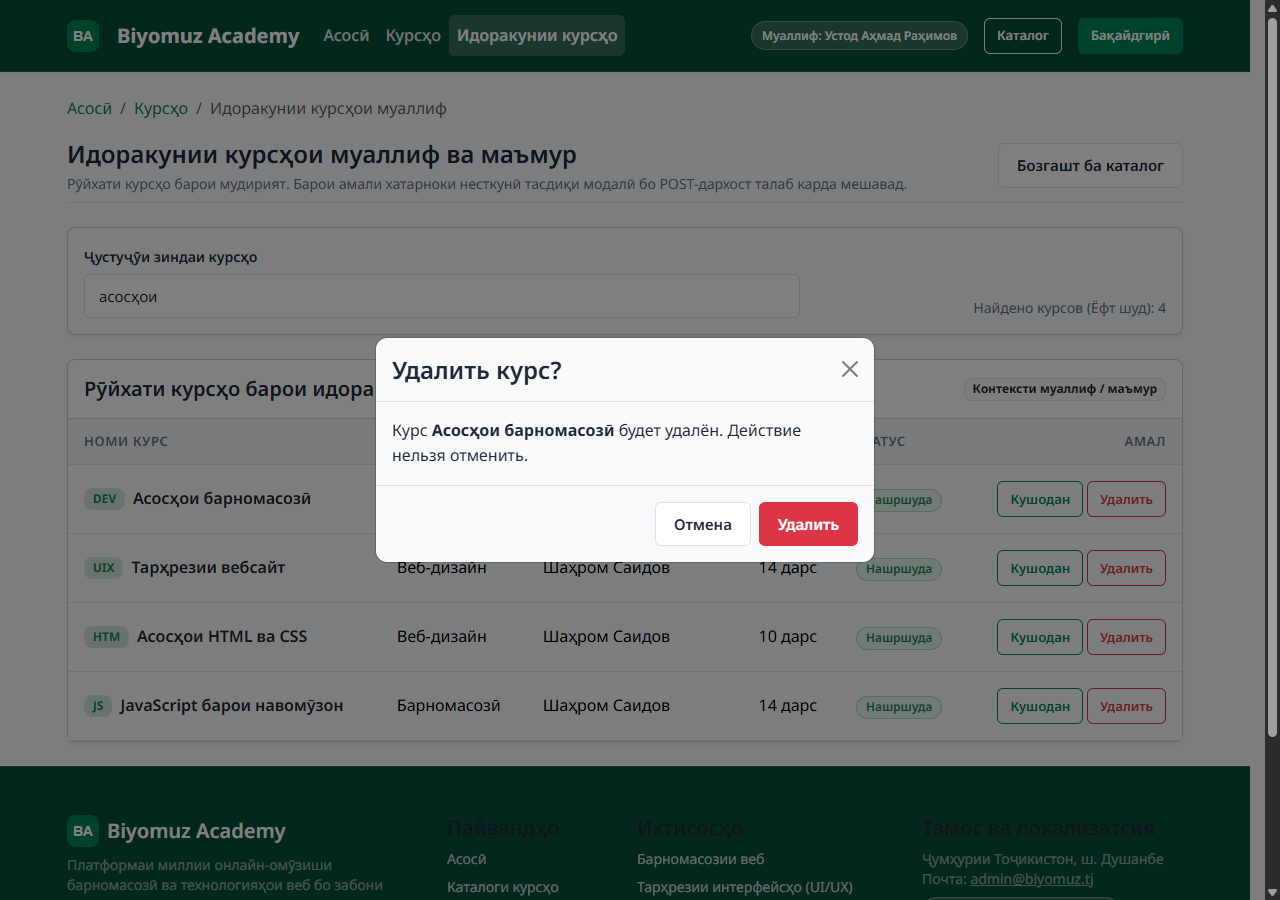
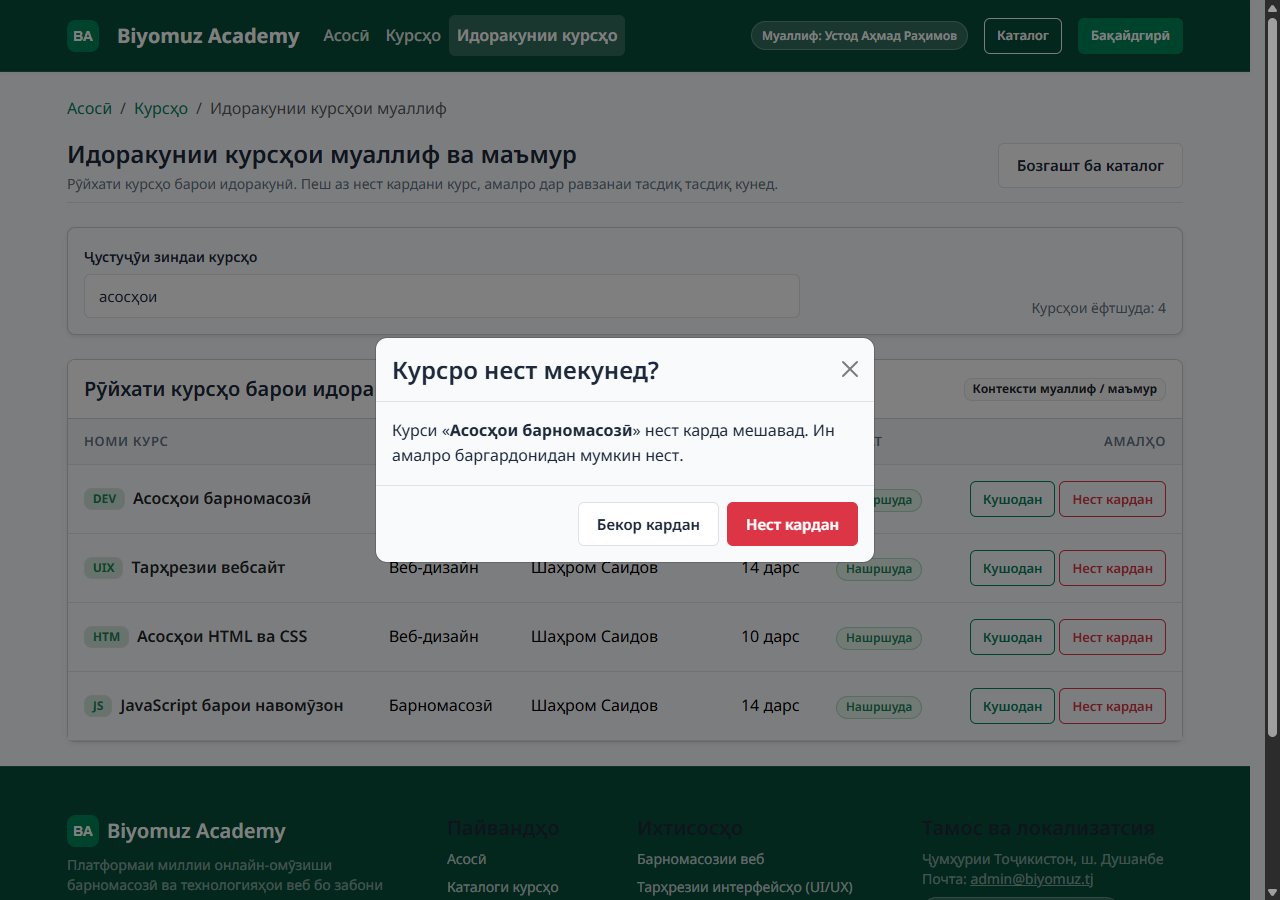
fix(lab-11): локализация модального окна на таджикский и защита AbortController

diff --git a/public/static/author-courses.html b/public/static/author-courses.html
@@ -75,7 +75,7 @@
       <div>
         <h1 class="h2 mb-1">Идоракунии курсҳои муаллиф ва маъмур</h1>
         <p class="text-muted text-small mb-0">
-          Рӯйхати курсҳо барои мудирият. Барои амали хатарноки несткунӣ тасдиқи модалӣ бо POST-дархост талаб карда мешавад.
+          Рӯйхати курсҳо барои идоракунӣ. Пеш аз нест кардани курс, амалро дар равзанаи тасдиқ тасдиқ кунед.
         </p>
       </div>
       <a href="courses.html" class="btn btn-outline-secondary">Бозгашт ба каталог</a>
@@ -91,7 +91,7 @@
         </div>
         <div class="col-12 col-md-4 d-flex align-items-center justify-content-md-end">
           <p id="course-search-status" class="text-small text-muted mb-0" aria-live="polite">
-            Найдено курсов (Ёфт шуд): 6
+            Курсҳои ёфтшуда: 5
           </p>
         </div>
       </form>
@@ -113,8 +113,8 @@
               <th scope="col">Категория</th>
               <th scope="col">Муаллиф</th>
               <th scope="col">Дарсҳо</th>
-              <th scope="col">Статус</th>
-              <th scope="col" class="text-end">Амал</th>
+              <th scope="col">Ҳолат</th>
+              <th scope="col" class="text-end">Амалҳо</th>
             </tr>
           </thead>
           <tbody id="courses-tbody" data-manage-mode="author">
@@ -128,12 +128,12 @@
               <td data-label="Категория">Барномасозӣ</td>
               <td data-label="Муаллиф">Устод Аҳмад Раҳимов</td>
               <td data-label="Дарсҳо">18 дарс</td>
-              <td data-label="Статус"><span class="badge-status status-published">Нашршуда</span></td>
-              <td data-label="Амал" class="text-end cell-actions">
+              <td data-label="Ҳолат"><span class="badge-status status-published">Нашршуда</span></td>
+              <td data-label="Амалҳо" class="text-end cell-actions">
                 <a class="btn btn-sm btn-outline-primary" href="course.html">Кушодан</a>
                 <button type="button" class="btn btn-sm btn-outline-danger ms-1"
                         data-delete-url="/courses/3/delete"
-                        data-course-name="Кор бо Laravel">Удалить</button>
+                        data-course-name="Кор бо Laravel">Нест кардан</button>
               </td>
             </tr>
             <tr>
@@ -146,12 +146,12 @@
               <td data-label="Категория">Барномасозӣ</td>
               <td data-label="Муаллиф">Устод Аҳмад Раҳимов</td>
               <td data-label="Дарсҳо">16 дарс</td>
-              <td data-label="Статус"><span class="badge-status status-published">Нашршуда</span></td>
-              <td data-label="Амал" class="text-end cell-actions">
+              <td data-label="Ҳолат"><span class="badge-status status-published">Нашршуда</span></td>
+              <td data-label="Амалҳо" class="text-end cell-actions">
                 <a class="btn btn-sm btn-outline-primary" href="course.html">Кушодан</a>
                 <button type="button" class="btn btn-sm btn-outline-danger ms-1"
                         data-delete-url="/courses/2/delete"
-                        data-course-name="Омӯзиши забони PHP">Удалить</button>
+                        data-course-name="Омӯзиши забони PHP">Нест кардан</button>
               </td>
             </tr>
             <tr>
@@ -164,12 +164,12 @@
               <td data-label="Категория">Барномасозӣ</td>
               <td data-label="Муаллиф">Устод Аҳмад Раҳимов</td>
               <td data-label="Дарсҳо">12 дарс</td>
-              <td data-label="Статус"><span class="badge-status status-published">Нашршуда</span></td>
-              <td data-label="Амал" class="text-end cell-actions">
+              <td data-label="Ҳолат"><span class="badge-status status-published">Нашршуда</span></td>
+              <td data-label="Амалҳо" class="text-end cell-actions">
                 <a class="btn btn-sm btn-outline-primary" href="course.html">Кушодан</a>
                 <button type="button" class="btn btn-sm btn-outline-danger ms-1"
                         data-delete-url="/courses/1/delete"
-                        data-course-name="Асосҳои барномасозӣ">Удалить</button>
+                        data-course-name="Асосҳои барномасозӣ">Нест кардан</button>
               </td>
             </tr>
             <tr>
@@ -182,12 +182,12 @@
               <td data-label="Категория">Барномасозӣ</td>
               <td data-label="Муаллиф">Синои Ҳасан</td>
               <td data-label="Дарсҳо">8 дарс</td>
-              <td data-label="Статус"><span class="badge-status status-pending">Мунтазир</span></td>
-              <td data-label="Амал" class="text-end cell-actions">
+              <td data-label="Ҳолат"><span class="badge-status status-pending">Мунтазир</span></td>
+              <td data-label="Амалҳо" class="text-end cell-actions">
                 <a class="btn btn-sm btn-outline-primary" href="course.html">Кушодан</a>
                 <button type="button" class="btn btn-sm btn-outline-danger ms-1"
                         data-delete-url="/courses/9/delete"
-                        data-course-name="Амнияти веб">Удалить</button>
+                        data-course-name="Амнияти веб">Нест кардан</button>
               </td>
             </tr>
             <tr>
@@ -200,12 +200,12 @@
               <td data-label="Категория">Барномасозӣ</td>
               <td data-label="Муаллиф">Устод Аҳмад Раҳимов</td>
               <td data-label="Дарсҳо">15 дарс</td>
-              <td data-label="Статус"><span class="badge-status status-draft">Сиёҳнавис</span></td>
-              <td data-label="Амал" class="text-end cell-actions">
+              <td data-label="Ҳолат"><span class="badge-status status-draft">Сиёҳнавис</span></td>
+              <td data-label="Амалҳо" class="text-end cell-actions">
                 <a class="btn btn-sm btn-outline-primary" href="course.html">Кушодан</a>
                 <button type="button" class="btn btn-sm btn-outline-danger ms-1"
                         data-delete-url="/courses/10/delete"
-                        data-course-name="Сохтани лоиҳаи амалӣ">Удалить</button>
+                        data-course-name="Сохтани лоиҳаи амалӣ">Нест кардан</button>
               </td>
             </tr>
           </tbody>
@@ -215,23 +215,23 @@
 
   </main>
 
-  <!-- ── МОДАЛЬНОЕ ОКНО ПОДТВЕРЖДЕНИЯ УДАЛЕНИЯ КУРСА ─────────────────────────── -->
+  <!-- ── РАВЗАНАИ МОДАЛИИ ТАСДИҚИ НЕСТ КАРДАНИ КУРС ───────────────────────────── -->
   <div class="modal fade" id="confirm-delete-modal" tabindex="-1" aria-labelledby="confirm-delete-title" aria-hidden="true">
     <div class="modal-dialog modal-dialog-centered">
       <div class="modal-content">
         <div class="modal-header">
-          <h2 class="modal-title h4" id="confirm-delete-title">Удалить курс?</h2>
-          <button type="button" class="btn-close" data-bs-dismiss="modal" aria-label="Закрыть"></button>
+          <h2 class="modal-title h4" id="confirm-delete-title">Курсро нест мекунед?</h2>
+          <button type="button" class="btn-close" data-bs-dismiss="modal" aria-label="Пӯшидан"></button>
         </div>
         <div class="modal-body">
           <p class="mb-0">
-            Курс <strong id="confirm-delete-name"></strong> будет удалён. Действие нельзя отменить.
+            Курси «<strong id="confirm-delete-name"></strong>» нест карда мешавад. Ин амалро баргардонидан мумкин нест.
           </p>
         </div>
         <div class="modal-footer">
-          <button type="button" class="btn btn-outline-secondary" data-bs-dismiss="modal">Отмена</button>
+          <button type="button" class="btn btn-outline-secondary" data-bs-dismiss="modal">Бекор кардан</button>
           <form id="confirm-delete-form" method="post" action="#">
-            <button type="submit" class="btn btn-danger">Удалить</button>
+            <button type="submit" class="btn btn-danger">Нест кардан</button>
           </form>
         </div>
       </div>

diff --git a/public/assets/js/app.js b/public/assets/js/app.js
@@ -279,14 +279,14 @@ function createCourseTableRow(course, isAuthorMode) {
 
   const statusKey = course.status in STATUS_LABELS ? course.status : 'draft';
   const statusTd = document.createElement('td');
-  statusTd.setAttribute('data-label', isAuthorMode ? 'Статус' : 'Ҳолат');
+  statusTd.setAttribute('data-label', 'Ҳолат');
   const statusSpan = document.createElement('span');
   statusSpan.className = `badge-status status-${statusKey}`;
   statusSpan.textContent = STATUS_LABELS[statusKey];
   statusTd.append(statusSpan);
 
   const actionsTd = document.createElement('td');
-  actionsTd.setAttribute('data-label', 'Амал');
+  actionsTd.setAttribute('data-label', 'Амалҳо');
   actionsTd.className = 'text-end cell-actions';
 
   const openLink = document.createElement('a');
@@ -301,7 +301,7 @@ function createCourseTableRow(course, isAuthorMode) {
     deleteBtn.className = 'btn btn-sm btn-outline-danger ms-1';
     deleteBtn.dataset.deleteUrl = `/courses/${encodeURIComponent(course.id)}/delete`;
     deleteBtn.dataset.courseName = course.title ?? '';
-    deleteBtn.textContent = 'Удалить';
+    deleteBtn.textContent = 'Нест кардан';
     actionsTd.append(deleteBtn);
   }
 
@@ -322,7 +322,7 @@ function renderCourses(container, courses, tbody) {
     if (courses.length === 0) {
       const emptyBox = document.createElement('div');
       emptyBox.className = 'alert alert-light border text-muted mb-0';
-      emptyBox.textContent = 'Курсы не найдены (Курсҳо ёфт нашуданд).';
+      emptyBox.textContent = 'Курсҳо ёфт нашуданд.';
       container.replaceChildren(emptyBox);
     } else {
       const cards = courses.map((course) => createCourseCard(course));
@@ -337,7 +337,7 @@ function renderCourses(container, courses, tbody) {
       const emptyTd = document.createElement('td');
       emptyTd.colSpan = 6;
       emptyTd.className = 'text-center text-muted py-4';
-      emptyTd.textContent = 'Курсы не найдены (Курсҳо ёфт нашуданд).';
+      emptyTd.textContent = 'Курсҳо ёфт нашуданд.';
       emptyRow.append(emptyTd);
       tbody.replaceChildren(emptyRow);
     } else {
@@ -363,16 +363,17 @@ function initCourseSearch() {
 
   async function search(query) {
     controller?.abort();
-    controller = new AbortController();
+    const currentController = new AbortController();
+    controller = currentController;
 
     if (listContainer) listContainer.setAttribute('aria-busy', 'true');
     if (tbody) tbody.setAttribute('aria-busy', 'true');
-    setStatus('Поиск курсов… (Ҷустуҷӯ…)');
+    setStatus('Ҷустуҷӯи курсҳо идома дорад…');
 
     try {
       const response = await fetch(`/api/courses?q=${encodeURIComponent(query)}`, {
         headers: { Accept: 'application/json' },
-        signal: controller.signal,
+        signal: currentController.signal,
       });
 
       if (!response.ok) {
@@ -380,6 +381,8 @@ function initCourseSearch() {
       }
 
       const courses = await response.json();
+      if (currentController.signal.aborted) return;
+
       if (!Array.isArray(courses)) {
         throw new Error('Некорректный формат ответа API');
       }
@@ -387,16 +390,18 @@ function initCourseSearch() {
       renderCourses(listContainer, courses, tbody);
       setStatus(
         courses.length > 0
-          ? `Найдено курсов (Ёфт шуд): ${courses.length}`
-          : 'Курсы не найдены (Курсҳо ёфт нашуданд).'
+          ? `Курсҳои ёфтшуда: ${courses.length}`
+          : 'Курсҳо ёфт нашуданд.'
       );
     } catch (error) {
-      if (error.name === 'AbortError') return;
+      if (error.name === 'AbortError' || currentController.signal.aborted) return;
       console.error('Ошибка живого поиска курсов:', error);
-      setStatus('Не удалось выполнить поиск. Проверьте соединение с сервером и попробуйте ещё раз.');
+      setStatus('Ҷустуҷӯ иҷро нашуд. Пайвастшавиро бо сервер санҷед ва дубора кӯшиш кунед.');
     } finally {
-      if (listContainer) listContainer.removeAttribute('aria-busy');
-      if (tbody) tbody.removeAttribute('aria-busy');
+      if (controller === currentController) {
+        if (listContainer) listContainer.removeAttribute('aria-busy');
+        if (tbody) tbody.removeAttribute('aria-busy');
+      }
     }
   }
 
@@ -450,7 +455,11 @@ function initDeleteConfirm() {
   });
 
   // Защита от двойного нажатия при отправке формы
-  form.addEventListener('submit', () => {
+  form.addEventListener('submit', (event) => {
+    if (submitButton?.disabled) {
+      event.preventDefault();
+      return;
+    }
     if (submitButton) submitButton.disabled = true;
   });
 }

diff --git a/public/static/courses.html b/public/static/courses.html
@@ -170,7 +170,7 @@
           <div>
             <span class="fw-semibold">Намоиш:</span>
             <p id="course-search-status" class="d-inline text-muted text-small mb-0" aria-live="polite">
-              Найдено курсов (Ёфт шуд): 6
+              Курсҳои ёфтшуда: 6
             </p>
           </div>
 
@@ -361,7 +361,7 @@
                   <th scope="col">Муаллиф</th>
                   <th scope="col">Дарсҳо</th>
                   <th scope="col">Ҳолат</th>
-                  <th scope="col" class="text-end">Амал</th>
+                  <th scope="col" class="text-end">Амалҳо</th>
                 </tr>
               </thead>
               <tbody id="courses-tbody">
@@ -376,7 +376,7 @@
                   <td data-label="Муаллиф">Устод Аҳмад Раҳимов</td>
                   <td data-label="Дарсҳо">18 дарс</td>
                   <td data-label="Ҳолат"><span class="badge-status status-published">Нашршуда</span></td>
-                  <td data-label="Амал" class="text-end cell-actions">
+                  <td data-label="Амалҳо" class="text-end cell-actions">
                     <a class="btn btn-sm btn-outline-primary" href="course.html">Кушодан</a>
                   </td>
                 </tr>
@@ -391,7 +391,7 @@
                   <td data-label="Муаллиф">Устод Аҳмад Раҳимов</td>
                   <td data-label="Дарсҳо">16 дарс</td>
                   <td data-label="Ҳолат"><span class="badge-status status-published">Нашршуда</span></td>
-                  <td data-label="Амал" class="text-end cell-actions">
+                  <td data-label="Амалҳо" class="text-end cell-actions">
                     <a class="btn btn-sm btn-outline-primary" href="course.html">Кушодан</a>
                   </td>
                 </tr>
@@ -406,7 +406,7 @@
                   <td data-label="Муаллиф">Устод Аҳмад Раҳимов</td>
                   <td data-label="Дарсҳо">12 дарс</td>
                   <td data-label="Ҳолат"><span class="badge-status status-published">Нашршуда</span></td>
-                  <td data-label="Амал" class="text-end cell-actions">
+                  <td data-label="Амалҳо" class="text-end cell-actions">
                     <a class="btn btn-sm btn-outline-primary" href="course.html">Кушодан</a>
                   </td>
                 </tr>
@@ -421,7 +421,7 @@
                   <td data-label="Муаллиф">Шаҳром Саидов</td>
                   <td data-label="Дарсҳо">14 дарс</td>
                   <td data-label="Ҳолат"><span class="badge-status status-published">Нашршуда</span></td>
-                  <td data-label="Амал" class="text-end cell-actions">
+                  <td data-label="Амалҳо" class="text-end cell-actions">
                     <a class="btn btn-sm btn-outline-primary" href="course.html">Кушодан</a>
                   </td>
                 </tr>
@@ -436,7 +436,7 @@
                   <td data-label="Муаллиф">Шаҳром Саидов</td>
                   <td data-label="Дарсҳо">10 дарс</td>
                   <td data-label="Ҳолат"><span class="badge-status status-published">Нашршуда</span></td>
-                  <td data-label="Амал" class="text-end cell-actions">
+                  <td data-label="Амалҳо" class="text-end cell-actions">
                     <a class="btn btn-sm btn-outline-primary" href="course.html">Кушодан</a>
                   </td>
                 </tr>
@@ -451,7 +451,7 @@
                   <td data-label="Муаллиф">Синои Ҳасан</td>
                   <td data-label="Дарсҳо">10 дарс</td>
                   <td data-label="Ҳолат"><span class="badge-status status-published">Нашршуда</span></td>
-                  <td data-label="Амал" class="text-end cell-actions">
+                  <td data-label="Амалҳо" class="text-end cell-actions">
                     <a class="btn btn-sm btn-outline-primary" href="course.html">Кушодан</a>
                   </td>
                 </tr>

diff --git a/docs/11-screens/README.md b/docs/11-screens/README.md
@@ -32,7 +32,7 @@
 | **Заглушкаи API** | `php -l` (0 хато). `q=""` → 11 сабт; `q="php"` → 2 сабт; `q="асосҳои"` (кириллитса бо `mb_strtolower(..., 'UTF-8')`) → 4 сабт; `q="notfound999"` → `[]`. | **PASS** |
 | **Ҷустуҷӯи зинда (Live Search)** | Воридкунии босуръати `p` → `ph` → `php` дар зарфи 90 мс: тавассути `debounce(300)` танҳо **1 дархости HTTP** (`/api/courses?q=php`, `200 OK`, `application/json`) ирсол гардид. Бекоркунии дархости кӯҳна бо `AbortController` ва санҷиши `response.ok` (паёми хатогӣ ҳангоми HTTP 500) тасдиқ шуд. | **PASS** |
 | **Муҳофизат аз XSS** | Барои сабти `<img src=x onerror="alert('XSS')"> Тести Biyomuz`: `0` равзанаи `alert()`, `0` теги сохташудаи `<img>` дар DOM — тамоми сатр тавассути `textContent` ҳамчун матни одӣ нишон дода шуд. | **PASS** |
-| **Модалкаи тасдиқ** | Пахши «Удалить» (ҳатто баъди навсозии зиндаи ҷадвал через делегиратсия) номи курсро дар `#confirm-delete-name` нишон дод; `method="post"` таъмин шуд; `ESC` модалро пӯшонида, фокусро ба тугма баргардонд; ҳангоми `submit` тугма `disabled = true` шуд (бе нест кардани курси воқеӣ аз БД). | **PASS** |
+| **Модалкаи тасдиқ** | Пахши «Нест кардан» (ҳатто баъди навсозии зиндаи ҷадвал тавассути делегиратсия) сарлавҳаи «Курсро нест мекунед?» ва номи курсро дар `#confirm-delete-name` бо забони тоҷикӣ нишон дод; `method="post"` таъмин шуд; `ESC` ва тугмаи «Бекор кардан» модалро пӯшонида, фокусро ба тугма баргардонданд; ҳангоми `submit` тугма `disabled = true` шуд (бе нест кардани курси воқеӣ аз БД). | **PASS** |
 | **Консоли браузер (Console)** | 0 хатогии ғайричашмдошти JS / CORS / ES Module дар ҳамаи саҳифаҳои ЛР №10 ва ЛР №11. | **PASS** |
 
 ---
